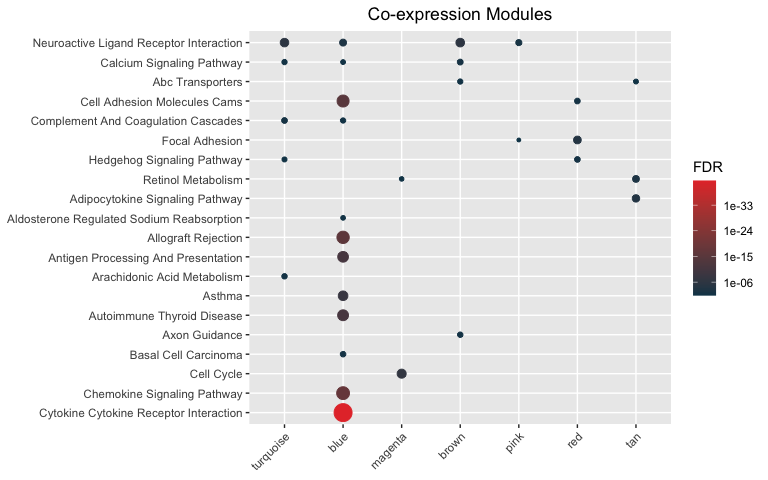
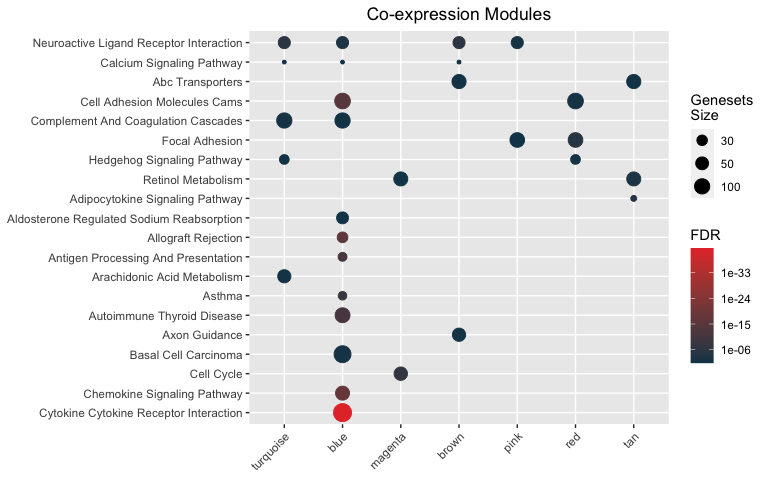
Dots plot sizing
Fix #35

Dots plots are now explicitly sized with `size_by=c("genesets", "significance", "none")`

diff --git a/README.md b/README.md
@@ -106,7 +106,7 @@ genesets <- msigdb_gsets("Homo sapiens", "C2", "CP:KEGG", clean=TRUE)
 print(genesets)
 ```
 
-    #> C2.CP:KEGG v7.2.1 
+    #> C2.CP:KEGG v7.4.1 
     #> Abc Transporters (44)
     #> Acute Myeloid Leukemia (57)
     #> Adherens Junction (73)

diff --git a/NEWS.md b/NEWS.md
@@ -1,3 +1,6 @@
+# hypeR 2.0.1
+* Dots plots are now explicitly sized with `size_by=c("genesets", "significance", "none")` 
+
 # hypeR 2.0.0
 * Version bump for bioconductor
 
